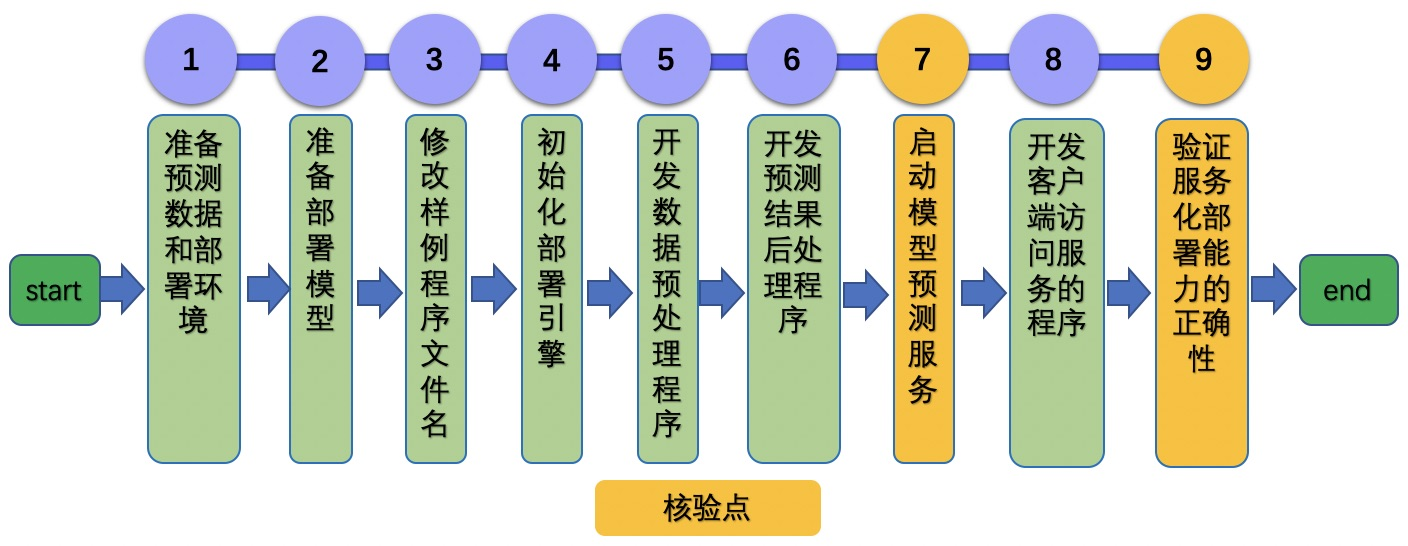
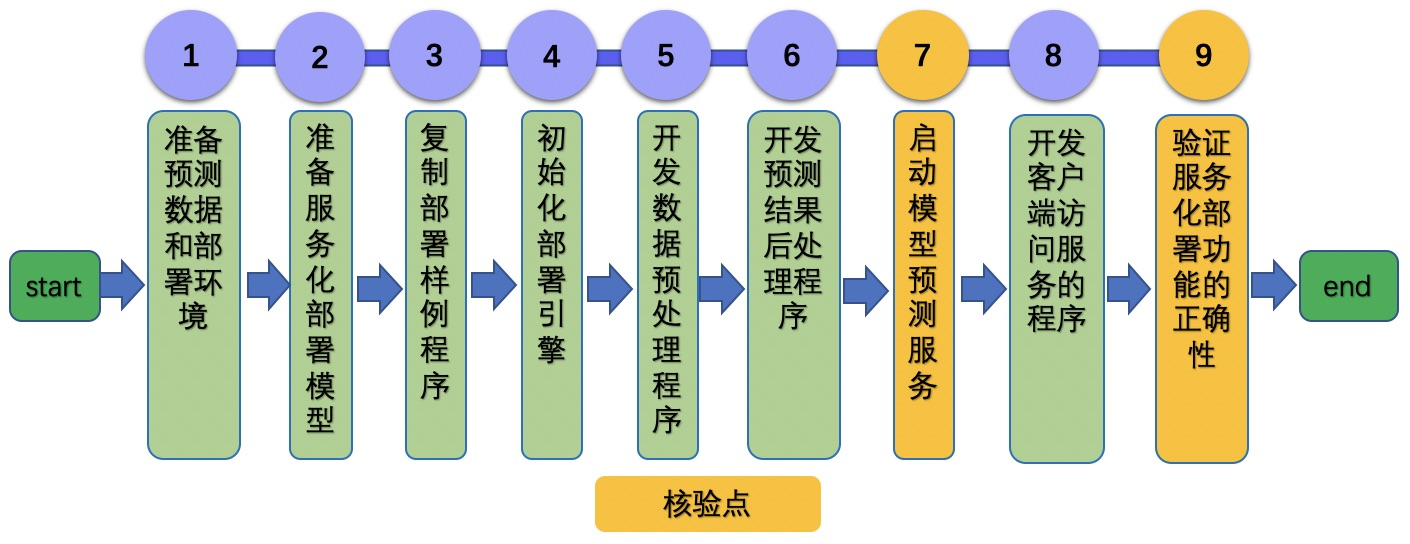
update pd serving

diff --git a/docs/tipc/py_serving/template/code/web_service.py b/docs/tipc/py_serving/template/code/web_service.py
@@ -1,0 +1,35 @@
+# Copyright (c) 2021 PaddlePaddle Authors. All Rights Reserved.
+#
+# Licensed under the Apache License, Version 2.0 (the "License");
+# you may not use this file except in compliance with the License.
+# You may obtain a copy of the License at
+#
+#     http://www.apache.org/licenses/LICENSE-2.0
+#
+# Unless required by applicable law or agreed to in writing, software
+# distributed under the License is distributed on an "AS IS" BASIS,
+# WITHOUT WARRANTIES OR CONDITIONS OF ANY KIND, either express or implied.
+# See the License for the specific language governing permissions and
+# limitations under the License.
+
+from paddle_serving_server.web_service import WebService, Op
+
+class TIPCExampleOp(Op):
+    def init_op(self):
+        pass
+    
+    def preprocess(self, input_dicts, data_id, log_id):
+        pass
+        
+    def postprocess(self, input_dicts, fetch_dict, data_id, log_id):
+        pass
+
+
+class TIPCExampleService(WebService):
+    def get_pipeline_response(self, read_op):
+        tipc_example_op = TIPCExampleOp(name="tipc_example", input_ops=[read_op])
+        return tipc_example_op
+
+uci_service = TIPCExampleService(name="tipc_example")
+uci_service.prepare_pipeline_config("config.yml")
+uci_service.run_service()

diff --git a/docs/tipc/py_serving/template/code/pipeline_http_client.py b/docs/tipc/py_serving/template/code/pipeline_http_client.py
@@ -1,0 +1,21 @@
+import numpy as np
+import requests
+import json
+import cv2
+import base64
+import os
+
+def cv2_to_base64(image):
+    return base64.b64encode(image).decode('utf8')
+
+if __name__ == "__main__":
+    url = "http://127.0.0.1:18080/tipc_example/prediction"
+    logid = 10000
+    img_path = "../../images/demo.jpg"
+    with open(img_path, 'rb') as file:
+        image_data1 = file.read()
+    image = cv2_to_base64(image_data1)
+    data = {"key": ["image"], "value": [image], "logid":logid}
+    for i in range(5):
+        r = requests.post(url=url, data=json.dumps(data))
+        print(r.json())
